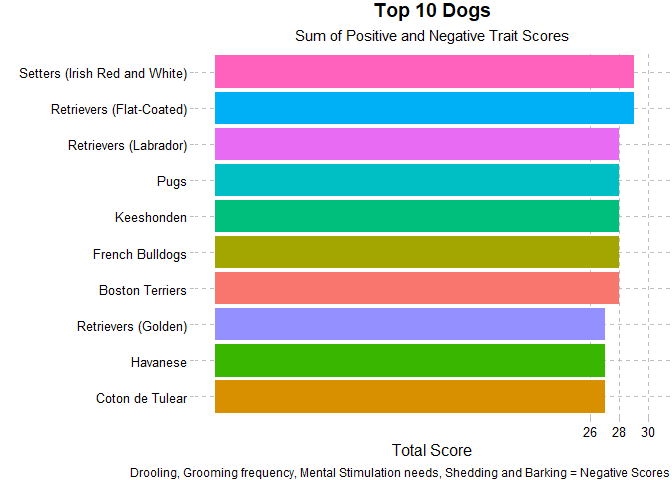
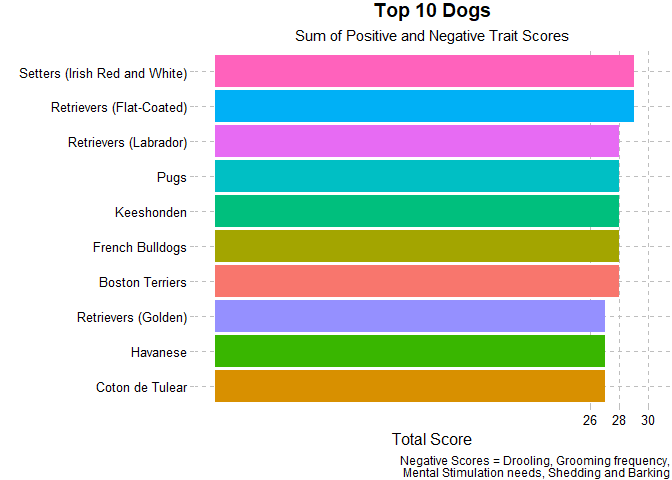
quick caption polish

diff --git a/DogBreeds.md b/DogBreeds.md
@@ -54,8 +54,8 @@ breed_long %>%
   scale_x_continuous(minor_breaks = seq(26,30,2), breaks = seq(26,30,2), limits = c(0,30)) +
   labs(title = "Top 10 Dogs", subtitle = "Sum of Positive and Negative Trait Scores",
        y = "", x = "Total Score", 
-       caption = "Drooling, Grooming frequency, Mental Stimulation needs, Shedding and Barking = Negative Scores") +
-  theme(legend.position = "", plot.caption = element_text(lineheight = 0.5), 
+       caption = "Negative Scores = Drooling, Grooming frequency,\n Mental Stimulation needs, Shedding and Barking") +
+  theme(legend.position = "", plot.caption = element_text(lineheight = 0.8), 
         plot.title = element_text(hjust = 0.5), plot.subtitle = element_text(hjust = 0.5))
 ```
 
